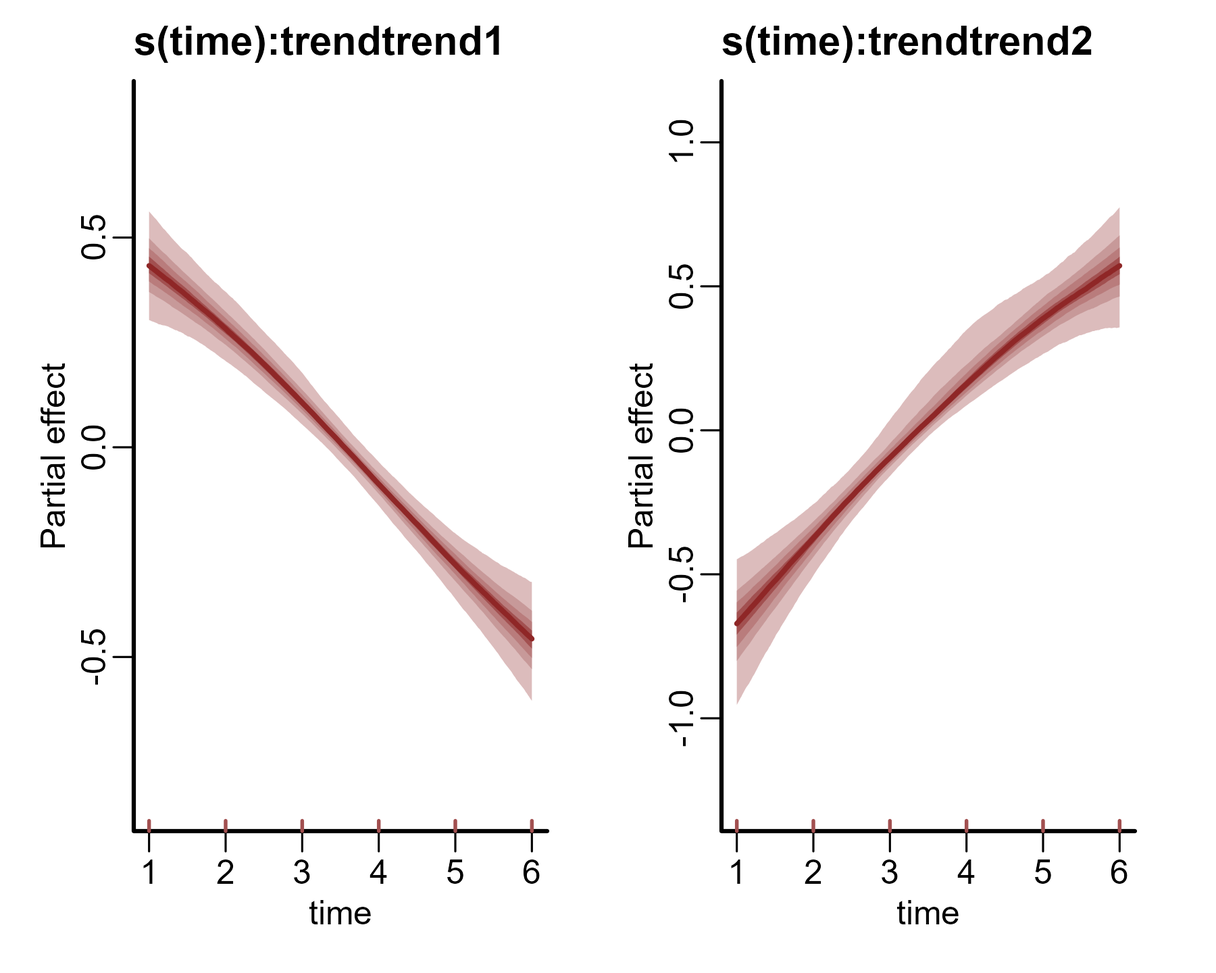
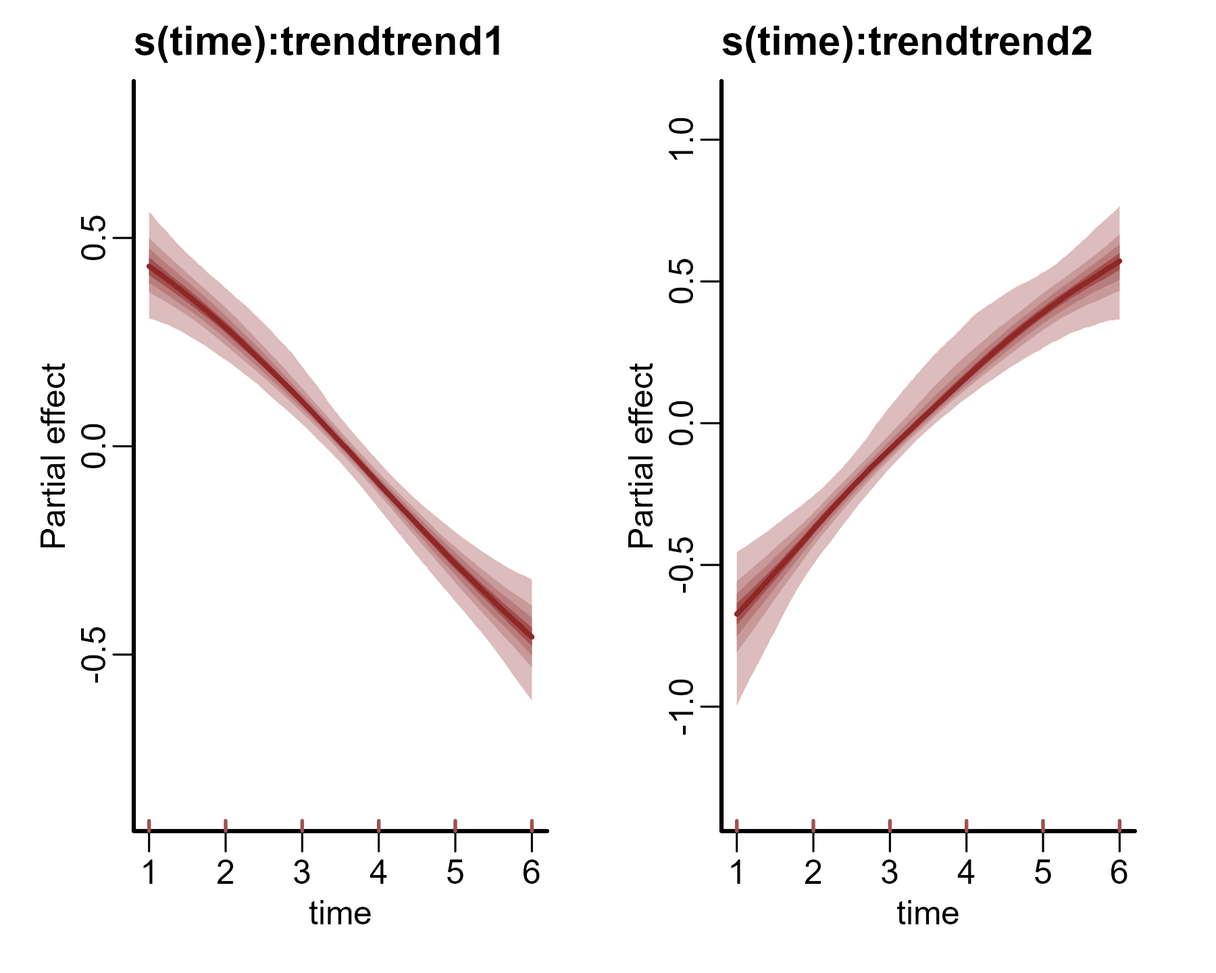
more efficient LV to trend conversions

diff --git a/docs/articles/nmixtures.html b/docs/articles/nmixtures.html
@@ -297,7 +297,7 @@ Bayesian inference</p>
 <span>  </span>
 <span>  <span class="co"># the trend_formula sets up the linear predictors for </span></span>
 <span>  <span class="co"># the latent abundance processes on the log scale</span></span>
-<span>  trend_formula <span class="op">=</span> <span class="op">~</span> <span class="fu"><a href="https://rdrr.io/pkg/mgcv/man/s.html" class="external-link">s</a></span><span class="op">(</span><span class="va">time</span>, by <span class="op">=</span> <span class="va">trend</span>, k <span class="op">=</span> <span class="fl">4</span><span class="op">)</span> <span class="op">+</span> <span class="va">species</span>,</span>
+<span>  trend_formula <span class="op">=</span> <span class="op">~</span> <span class="fu">s</span><span class="op">(</span><span class="va">time</span>, by <span class="op">=</span> <span class="va">trend</span>, k <span class="op">=</span> <span class="fl">4</span><span class="op">)</span> <span class="op">+</span> <span class="va">species</span>,</span>
 <span>  </span>
 <span>  <span class="co"># the trend_map takes care of the mapping</span></span>
 <span>  trend_map <span class="op">=</span> <span class="va">trend_map</span>,</span>
@@ -307,8 +307,8 @@ Bayesian inference</p>
 <span>  data <span class="op">=</span> <span class="va">testdat</span>,</span>
 <span>  </span>
 <span>  <span class="co"># priors can be set in the usual way</span></span>
-<span>  priors <span class="op">=</span> <span class="fu"><a href="https://rdrr.io/r/base/c.html" class="external-link">c</a></span><span class="op">(</span><span class="fu"><a href="https://paul-buerkner.github.io/brms/reference/set_prior.html" class="external-link">prior</a></span><span class="op">(</span><span class="fu">std_normal</span><span class="op">(</span><span class="op">)</span>, class <span class="op">=</span> <span class="va">b</span><span class="op">)</span>,</span>
-<span>             <span class="fu"><a href="https://paul-buerkner.github.io/brms/reference/set_prior.html" class="external-link">prior</a></span><span class="op">(</span><span class="fu">normal</span><span class="op">(</span><span class="fl">1</span>, <span class="fl">1.5</span><span class="op">)</span>, class <span class="op">=</span> <span class="va">Intercept_trend</span><span class="op">)</span><span class="op">)</span><span class="op">)</span></span></code></pre></div>
+<span>  priors <span class="op">=</span> <span class="fu"><a href="https://rdrr.io/r/base/c.html" class="external-link">c</a></span><span class="op">(</span><span class="fu">prior</span><span class="op">(</span><span class="fu">std_normal</span><span class="op">(</span><span class="op">)</span>, class <span class="op">=</span> <span class="va">b</span><span class="op">)</span>,</span>
+<span>             <span class="fu">prior</span><span class="op">(</span><span class="fu">normal</span><span class="op">(</span><span class="fl">1</span>, <span class="fl">1.5</span><span class="op">)</span>, class <span class="op">=</span> <span class="va">Intercept_trend</span><span class="op">)</span><span class="op">)</span><span class="op">)</span></span></code></pre></div>
 <p>View the automatically-generated <code>Stan</code> code to get a
 sense of how the marginalization over latent N works</p>
 <div class="sourceCode" id="cb10"><pre class="downlit sourceCode r">
@@ -427,7 +427,6 @@ sense of how the marginalization over latent N works</p>
 <span><span class="co">##   // latent states and loading matrix</span></span>
 <span><span class="co">##   vector[n * n_lv] trend_mus;</span></span>
 <span><span class="co">##   matrix[n, n_series] trend;</span></span>
-<span><span class="co">##   matrix[n_series, n_lv] lv_coefs;</span></span>
 <span><span class="co">##   </span></span>
 <span><span class="co">##   // basis coefficients</span></span>
 <span><span class="co">##   vector[num_basis] b;</span></span>
@@ -449,12 +448,7 @@ sense of how the marginalization over latent N works</p>
 <span><span class="co">##   }</span></span>
 <span><span class="co">##   </span></span>
 <span><span class="co">##   // derived latent states</span></span>
-<span><span class="co">##   lv_coefs = Z;</span></span>
-<span><span class="co">##   for (i in 1 : n) {</span></span>
-<span><span class="co">##     for (s in 1 : n_series) {</span></span>
-<span><span class="co">##       trend[i, s] = dot_product(lv_coefs[s,  : ], LV[i,  : ]);</span></span>
-<span><span class="co">##     }</span></span>
-<span><span class="co">##   }</span></span>
+<span><span class="co">##   trend = LV * Z';</span></span>
 <span><span class="co">## }</span></span>
 <span><span class="co">## model {</span></span>
 <span><span class="co">##   // prior for speciessp_1...</span></span>
@@ -508,6 +502,7 @@ sense of how the marginalization over latent N works</p>
 <span><span class="co">##   penalty = rep_vector(1e12, n_lv);</span></span>
 <span><span class="co">##   rho_trend = log(lambda_trend);</span></span>
 <span><span class="co">##   </span></span>
+<span><span class="co">##   matrix[n_series, n_lv] lv_coefs = Z;</span></span>
 <span><span class="co">##   // posterior predictions</span></span>
 <span><span class="co">##   eta = X * b;</span></span>
 <span><span class="co">##   {</span></span>
@@ -576,25 +571,25 @@ sense of how the marginalization over latent N works</p>
 <span><span class="co">## </span></span>
 <span><span class="co">## </span></span>
 <span><span class="co">## GAM observation model coefficient (beta) estimates:</span></span>
-<span><span class="co">##              2.5%  50% 97.5% Rhat n_eff</span></span>
-<span><span class="co">## speciessp_1 0.520 1.10   1.6    1   982</span></span>
-<span><span class="co">## speciessp_2 0.031 0.71   1.2    1  1302</span></span>
+<span><span class="co">##              2.5% 50% 97.5% Rhat n_eff</span></span>
+<span><span class="co">## speciessp_1 0.560 1.1   1.6    1   926</span></span>
+<span><span class="co">## speciessp_2 0.078 0.7   1.2    1  1095</span></span>
 <span><span class="co">## </span></span>
 <span><span class="co">## GAM process model coefficient (beta) estimates:</span></span>
 <span><span class="co">##                               2.5%    50%  97.5% Rhat n_eff</span></span>
-<span><span class="co">## (Intercept)_trend            2.700  2.900  3.100    1   972</span></span>
-<span><span class="co">## speciessp_2_trend           -1.100 -0.820 -0.530    1   881</span></span>
-<span><span class="co">## s(time):trendtrend1.1_trend -0.061  0.027  0.220    1   821</span></span>
-<span><span class="co">## s(time):trendtrend1.2_trend -0.150  0.028  0.250    1  1523</span></span>
-<span><span class="co">## s(time):trendtrend1.3_trend -0.410 -0.280 -0.094    1  1102</span></span>
-<span><span class="co">## s(time):trendtrend2.1_trend -0.310 -0.021  0.092    1   481</span></span>
-<span><span class="co">## s(time):trendtrend2.2_trend -0.110  0.110  0.750    1   481</span></span>
-<span><span class="co">## s(time):trendtrend2.3_trend  0.170  0.410  0.630    1   917</span></span>
+<span><span class="co">## (Intercept)_trend            2.700  2.900  3.100 1.00   860</span></span>
+<span><span class="co">## speciessp_2_trend           -1.100 -0.830 -0.520 1.00   815</span></span>
+<span><span class="co">## s(time):trendtrend1.1_trend -0.059  0.031  0.310 1.00   447</span></span>
+<span><span class="co">## s(time):trendtrend1.2_trend -0.170  0.027  0.260 1.00  1085</span></span>
+<span><span class="co">## s(time):trendtrend1.3_trend -0.400 -0.270 -0.014 1.00   565</span></span>
+<span><span class="co">## s(time):trendtrend2.1_trend -0.300 -0.018  0.150 1.01   407</span></span>
+<span><span class="co">## s(time):trendtrend2.2_trend -0.110  0.110  0.830 1.00   434</span></span>
+<span><span class="co">## s(time):trendtrend2.3_trend  0.160  0.410  0.680 1.01   416</span></span>
 <span><span class="co">## </span></span>
 <span><span class="co">## Approximate significance of GAM process smooths:</span></span>
 <span><span class="co">##                        edf    F p-value   </span></span>
-<span><span class="co">## s(time):seriestrend1 0.596 0.26  0.0013 **</span></span>
-<span><span class="co">## s(time):seriestrend2 0.881 0.41  0.0269 * </span></span>
+<span><span class="co">## s(time):seriestrend1 0.424 0.27  0.3338   </span></span>
+<span><span class="co">## s(time):seriestrend2 1.092 0.42  0.0019 **</span></span>
 <span><span class="co">## ---</span></span>
 <span><span class="co">## Signif. codes:  0 '***' 0.001 '**' 0.01 '*' 0.05 '.' 0.1 ' ' 1</span></span>
 <span><span class="co">## </span></span>
@@ -605,29 +600,29 @@ sense of how the marginalization over latent N works</p>
 <span><span class="co">## 0 of 2000 iterations saturated the maximum tree depth of 12 (0%)</span></span>
 <span><span class="co">## E-FMI indicated no pathological behavior</span></span>
 <span><span class="co">## </span></span>
-<span><span class="co">## Samples were drawn using NUTS(diag_e) at Mon Jan 29 3:46:52 PM 2024.</span></span>
+<span><span class="co">## Samples were drawn using NUTS(diag_e) at Mon Jan 29 9:53:45 PM 2024.</span></span>
 <span><span class="co">## For each parameter, n_eff is a crude measure of effective sample size,</span></span>
 <span><span class="co">## and Rhat is the potential scale reduction factor on split MCMC chains</span></span>
 <span><span class="co">## (at convergence, Rhat = 1)</span></span></code></pre>
-<p><code><a href="https://mc-stan.org/loo/reference/loo.html" class="external-link">loo()</a></code> functionality works just as it does for all
+<p><code>loo()</code> functionality works just as it does for all
 <code>mvgam</code> models to aid in model comparison / selection</p>
 <div class="sourceCode" id="cb14"><pre class="downlit sourceCode r">
-<code class="sourceCode R"><span><span class="fu"><a href="https://mc-stan.org/loo/reference/loo.html" class="external-link">loo</a></span><span class="op">(</span><span class="va">mod</span><span class="op">)</span></span></code></pre></div>
+<code class="sourceCode R"><span><span class="fu">loo</span><span class="op">(</span><span class="va">mod</span><span class="op">)</span></span></code></pre></div>
 <pre><code><span><span class="co">## Warning: Some Pareto k diagnostic values are slightly high. See help('pareto-k-diagnostic') for details.</span></span></code></pre>
 <pre><code><span><span class="co">## </span></span>
 <span><span class="co">## Computed from 2000 by 60 log-likelihood matrix</span></span>
 <span><span class="co">## </span></span>
 <span><span class="co">##          Estimate  SE</span></span>
-<span><span class="co">## elpd_loo   -140.0 3.2</span></span>
-<span><span class="co">## p_loo         4.2 0.7</span></span>
-<span><span class="co">## looic       280.0 6.3</span></span>
+<span><span class="co">## elpd_loo   -139.9 3.2</span></span>
+<span><span class="co">## p_loo         4.3 0.7</span></span>
+<span><span class="co">## looic       279.8 6.3</span></span>
 <span><span class="co">## ------</span></span>
 <span><span class="co">## Monte Carlo SE of elpd_loo is 0.1.</span></span>
 <span><span class="co">## </span></span>
 <span><span class="co">## Pareto k diagnostic values:</span></span>
 <span><span class="co">##                          Count Pct.    Min. n_eff</span></span>
-<span><span class="co">## (-Inf, 0.5]   (good)     57    95.0%   386       </span></span>
-<span><span class="co">##  (0.5, 0.7]   (ok)        3     5.0%   567       </span></span>
+<span><span class="co">## (-Inf, 0.5]   (good)     59    98.3%   428       </span></span>
+<span><span class="co">##  (0.5, 0.7]   (ok)        1     1.7%   204       </span></span>
 <span><span class="co">##    (0.7, 1]   (bad)       0     0.0%   &lt;NA&gt;      </span></span>
 <span><span class="co">##    (1, Inf)   (very bad)  0     0.0%   &lt;NA&gt;      </span></span>
 <span><span class="co">## </span></span>
@@ -647,12 +642,12 @@ the estimated detection probabilities per species, which shows that the
 model has over-estimated detection probability for species 2 (originally
 simulated to be 0.45):</p>
 <div class="sourceCode" id="cb18"><pre class="downlit sourceCode r">
-<code class="sourceCode R"><span><span class="fu"><a href="https://rdrr.io/pkg/marginaleffects/man/plot_predictions.html" class="external-link">plot_predictions</a></span><span class="op">(</span><span class="va">mod</span>, condition <span class="op">=</span> <span class="st">'species'</span>,</span>
+<code class="sourceCode R"><span><span class="fu">plot_predictions</span><span class="op">(</span><span class="va">mod</span>, condition <span class="op">=</span> <span class="st">'species'</span>,</span>
 <span>                 type <span class="op">=</span> <span class="st">'detection'</span><span class="op">)</span> <span class="op">+</span></span>
-<span>  <span class="fu"><a href="https://ggplot2.tidyverse.org/reference/labs.html" class="external-link">ylab</a></span><span class="op">(</span><span class="st">'Pr(detection)'</span><span class="op">)</span> <span class="op">+</span></span>
-<span>  <span class="fu"><a href="https://ggplot2.tidyverse.org/reference/lims.html" class="external-link">ylim</a></span><span class="op">(</span><span class="fu"><a href="https://rdrr.io/r/base/c.html" class="external-link">c</a></span><span class="op">(</span><span class="fl">0</span>, <span class="fl">1</span><span class="op">)</span><span class="op">)</span> <span class="op">+</span></span>
-<span>  <span class="fu"><a href="https://ggplot2.tidyverse.org/reference/ggtheme.html" class="external-link">theme_classic</a></span><span class="op">(</span><span class="op">)</span> <span class="op">+</span></span>
-<span>  <span class="fu"><a href="https://ggplot2.tidyverse.org/reference/theme.html" class="external-link">theme</a></span><span class="op">(</span>legend.position <span class="op">=</span> <span class="st">'none'</span><span class="op">)</span></span></code></pre></div>
+<span>  <span class="fu">ylab</span><span class="op">(</span><span class="st">'Pr(detection)'</span><span class="op">)</span> <span class="op">+</span></span>
+<span>  <span class="fu">ylim</span><span class="op">(</span><span class="fu"><a href="https://rdrr.io/r/base/c.html" class="external-link">c</a></span><span class="op">(</span><span class="fl">0</span>, <span class="fl">1</span><span class="op">)</span><span class="op">)</span> <span class="op">+</span></span>
+<span>  <span class="fu">theme_classic</span><span class="op">(</span><span class="op">)</span> <span class="op">+</span></span>
+<span>  <span class="fu">theme</span><span class="op">(</span>legend.position <span class="op">=</span> <span class="st">'none'</span><span class="op">)</span></span></code></pre></div>
 <p><img src="nmixtures_files/figure-html/unnamed-chunk-11-1.png" width="60%" style="display: block; margin: auto;"></p>
 <p>A common goal in N-mixture modelling is to estimate the true latent
 abundance. The model has automatically generated predictions of the
@@ -695,18 +690,18 @@ extract these and produce decent plots using a small function</p>
 <span>    <span class="fu">dplyr</span><span class="fu">::</span><span class="fu"><a href="https://dplyr.tidyverse.org/reference/select.html" class="external-link">select</a></span><span class="op">(</span><span class="va">time</span>, <span class="va">obs</span><span class="op">)</span> <span class="op">-&gt;</span> <span class="va">observations</span></span>
 <span>  </span>
 <span>  <span class="co"># Plot</span></span>
-<span>  <span class="fu"><a href="https://ggplot2.tidyverse.org/reference/ggplot.html" class="external-link">ggplot</a></span><span class="op">(</span><span class="va">pred_quantiles</span>, <span class="fu"><a href="https://ggplot2.tidyverse.org/reference/aes.html" class="external-link">aes</a></span><span class="op">(</span>x <span class="op">=</span> <span class="va">time</span>, group <span class="op">=</span> <span class="fl">1</span><span class="op">)</span><span class="op">)</span> <span class="op">+</span></span>
-<span>    <span class="fu"><a href="https://ggplot2.tidyverse.org/reference/geom_ribbon.html" class="external-link">geom_ribbon</a></span><span class="op">(</span><span class="fu"><a href="https://ggplot2.tidyverse.org/reference/aes.html" class="external-link">aes</a></span><span class="op">(</span>ymin <span class="op">=</span> <span class="va">X5.</span>, ymax <span class="op">=</span> <span class="va">X95.</span><span class="op">)</span>, fill <span class="op">=</span> <span class="st">"#DCBCBC"</span><span class="op">)</span> <span class="op">+</span> </span>
-<span>    <span class="fu"><a href="https://ggplot2.tidyverse.org/reference/geom_ribbon.html" class="external-link">geom_ribbon</a></span><span class="op">(</span><span class="fu"><a href="https://ggplot2.tidyverse.org/reference/aes.html" class="external-link">aes</a></span><span class="op">(</span>ymin <span class="op">=</span> <span class="va">X30.</span>, ymax <span class="op">=</span> <span class="va">X70.</span><span class="op">)</span>, fill <span class="op">=</span> <span class="st">"#B97C7C"</span><span class="op">)</span> <span class="op">+</span></span>
-<span>    <span class="fu"><a href="https://ggplot2.tidyverse.org/reference/geom_path.html" class="external-link">geom_line</a></span><span class="op">(</span><span class="fu"><a href="https://ggplot2.tidyverse.org/reference/aes.html" class="external-link">aes</a></span><span class="op">(</span>x <span class="op">=</span> <span class="va">time</span>, y <span class="op">=</span> <span class="va">truth</span><span class="op">)</span>,</span>
+<span>  <span class="fu">ggplot</span><span class="op">(</span><span class="va">pred_quantiles</span>, <span class="fu">aes</span><span class="op">(</span>x <span class="op">=</span> <span class="va">time</span>, group <span class="op">=</span> <span class="fl">1</span><span class="op">)</span><span class="op">)</span> <span class="op">+</span></span>
+<span>    <span class="fu">geom_ribbon</span><span class="op">(</span><span class="fu">aes</span><span class="op">(</span>ymin <span class="op">=</span> <span class="va">X5.</span>, ymax <span class="op">=</span> <span class="va">X95.</span><span class="op">)</span>, fill <span class="op">=</span> <span class="st">"#DCBCBC"</span><span class="op">)</span> <span class="op">+</span> </span>
+<span>    <span class="fu">geom_ribbon</span><span class="op">(</span><span class="fu">aes</span><span class="op">(</span>ymin <span class="op">=</span> <span class="va">X30.</span>, ymax <span class="op">=</span> <span class="va">X70.</span><span class="op">)</span>, fill <span class="op">=</span> <span class="st">"#B97C7C"</span><span class="op">)</span> <span class="op">+</span></span>
+<span>    <span class="fu">geom_line</span><span class="op">(</span><span class="fu">aes</span><span class="op">(</span>x <span class="op">=</span> <span class="va">time</span>, y <span class="op">=</span> <span class="va">truth</span><span class="op">)</span>,</span>
 <span>              colour <span class="op">=</span> <span class="st">'black'</span>, linewidth <span class="op">=</span> <span class="fl">1</span><span class="op">)</span> <span class="op">+</span></span>
-<span>    <span class="fu"><a href="https://ggplot2.tidyverse.org/reference/geom_point.html" class="external-link">geom_point</a></span><span class="op">(</span><span class="fu"><a href="https://ggplot2.tidyverse.org/reference/aes.html" class="external-link">aes</a></span><span class="op">(</span>x <span class="op">=</span> <span class="va">time</span>, y <span class="op">=</span> <span class="va">truth</span><span class="op">)</span>,</span>
+<span>    <span class="fu">geom_point</span><span class="op">(</span><span class="fu">aes</span><span class="op">(</span>x <span class="op">=</span> <span class="va">time</span>, y <span class="op">=</span> <span class="va">truth</span><span class="op">)</span>,</span>
 <span>               shape <span class="op">=</span> <span class="fl">21</span>, colour <span class="op">=</span> <span class="st">'white'</span>, fill <span class="op">=</span> <span class="st">'black'</span>,</span>
 <span>               size <span class="op">=</span> <span class="fl">2.5</span><span class="op">)</span> <span class="op">+</span></span>
-<span>    <span class="fu"><a href="https://ggplot2.tidyverse.org/reference/geom_jitter.html" class="external-link">geom_jitter</a></span><span class="op">(</span>data <span class="op">=</span> <span class="va">observations</span>, <span class="fu"><a href="https://ggplot2.tidyverse.org/reference/aes.html" class="external-link">aes</a></span><span class="op">(</span>x <span class="op">=</span> <span class="va">time</span>, y <span class="op">=</span> <span class="va">obs</span><span class="op">)</span>,</span>
+<span>    <span class="fu">geom_jitter</span><span class="op">(</span>data <span class="op">=</span> <span class="va">observations</span>, <span class="fu">aes</span><span class="op">(</span>x <span class="op">=</span> <span class="va">time</span>, y <span class="op">=</span> <span class="va">obs</span><span class="op">)</span>,</span>
 <span>                width <span class="op">=</span> <span class="fl">0.06</span>, </span>
 <span>                shape <span class="op">=</span> <span class="fl">21</span>, fill <span class="op">=</span> <span class="st">'darkred'</span>, colour <span class="op">=</span> <span class="st">'white'</span>, size <span class="op">=</span> <span class="fl">2.5</span><span class="op">)</span> <span class="op">+</span></span>
-<span>    <span class="fu"><a href="https://ggplot2.tidyverse.org/reference/labs.html" class="external-link">labs</a></span><span class="op">(</span>y <span class="op">=</span> <span class="st">'Latent abundance (N)'</span>,</span>
+<span>    <span class="fu">labs</span><span class="op">(</span>y <span class="op">=</span> <span class="st">'Latent abundance (N)'</span>,</span>
 <span>         x <span class="op">=</span> <span class="st">'Time'</span>,</span>
 <span>         title <span class="op">=</span> <span class="va">species</span><span class="op">)</span></span>
 <span><span class="op">}</span></span></code></pre></div>
@@ -730,7 +725,7 @@ ability to take accurate measurements</p>
 </div>
 </div>
 <div class="section level2">
-<h2 id="example-2-a-two-species-system-with-nonlinear-trends">Example 2: a two-species system with nonlinear trends<a class="anchor" aria-label="anchor" href="#example-2-a-two-species-system-with-nonlinear-trends"></a>
+<h2 id="example-2-a-larger-survey-with-nonlinear-effects">Example 2: a larger survey with nonlinear effects<a class="anchor" aria-label="anchor" href="#example-2-a-larger-survey-with-nonlinear-effects"></a>
 </h2>
 <p>Now for another example with a larger dataset. We will use data from
 <a href="https://www.jeffdoser.com/files/spabundance-web/articles/nmixturemodels" target="_blank" class="external-link">Jeff Doser’s simulation example from the wonderful
@@ -856,13 +851,13 @@ substantially)</p>
 <code class="sourceCode R"><span><span class="va">mod</span> <span class="op">&lt;-</span> <span class="fu"><a href="../reference/mvgam.html">mvgam</a></span><span class="op">(</span></span>
 <span>  <span class="co"># effects of covariates on detection probability;</span></span>
 <span>  <span class="co"># here we use penalized splines for both continuous covariates</span></span>
-<span>  formula <span class="op">=</span> <span class="va">y</span> <span class="op">~</span> <span class="fu"><a href="https://rdrr.io/pkg/mgcv/man/s.html" class="external-link">s</a></span><span class="op">(</span><span class="va">det_cov</span>, k <span class="op">=</span> <span class="fl">3</span><span class="op">)</span> <span class="op">+</span> <span class="fu"><a href="https://rdrr.io/pkg/mgcv/man/s.html" class="external-link">s</a></span><span class="op">(</span><span class="va">det_cov2</span>, k <span class="op">=</span> <span class="fl">3</span><span class="op">)</span>,</span>
+<span>  formula <span class="op">=</span> <span class="va">y</span> <span class="op">~</span> <span class="fu">s</span><span class="op">(</span><span class="va">det_cov</span>, k <span class="op">=</span> <span class="fl">3</span><span class="op">)</span> <span class="op">+</span> <span class="fu">s</span><span class="op">(</span><span class="va">det_cov2</span>, k <span class="op">=</span> <span class="fl">3</span><span class="op">)</span>,</span>
 <span>  </span>
 <span>  <span class="co"># effects of the covariates on latent abundance;</span></span>
 <span>  <span class="co"># here we use a penalized spline for the continuous covariate and</span></span>
 <span>  <span class="co"># hierarchical intercepts for the factor covariate</span></span>
-<span>  trend_formula <span class="op">=</span> <span class="op">~</span> <span class="fu"><a href="https://rdrr.io/pkg/mgcv/man/s.html" class="external-link">s</a></span><span class="op">(</span><span class="va">abund_cov</span>, k <span class="op">=</span> <span class="fl">3</span><span class="op">)</span> <span class="op">+</span></span>
-<span>    <span class="fu"><a href="https://rdrr.io/pkg/mgcv/man/s.html" class="external-link">s</a></span><span class="op">(</span><span class="va">abund_fac</span>, bs <span class="op">=</span> <span class="st">'re'</span><span class="op">)</span>,</span>
+<span>  trend_formula <span class="op">=</span> <span class="op">~</span> <span class="fu">s</span><span class="op">(</span><span class="va">abund_cov</span>, k <span class="op">=</span> <span class="fl">3</span><span class="op">)</span> <span class="op">+</span></span>
+<span>    <span class="fu">s</span><span class="op">(</span><span class="va">abund_fac</span>, bs <span class="op">=</span> <span class="st">'re'</span><span class="op">)</span>,</span>
 <span>  </span>
 <span>  <span class="co"># link multiple observations to each site</span></span>
 <span>  trend_map <span class="op">=</span> <span class="va">trend_map</span>,</span>
@@ -872,9 +867,9 @@ substantially)</p>
 <span>  data <span class="op">=</span> <span class="va">mod_data</span>,</span>
 <span>  </span>
 <span>  <span class="co"># standard normal priors on key regression parameters</span></span>
-<span>  priors <span class="op">=</span> <span class="fu"><a href="https://rdrr.io/r/base/c.html" class="external-link">c</a></span><span class="op">(</span><span class="fu"><a href="https://paul-buerkner.github.io/brms/reference/set_prior.html" class="external-link">prior</a></span><span class="op">(</span><span class="fu">std_normal</span><span class="op">(</span><span class="op">)</span>, class <span class="op">=</span> <span class="st">'b'</span><span class="op">)</span>,</span>
-<span>             <span class="fu"><a href="https://paul-buerkner.github.io/brms/reference/set_prior.html" class="external-link">prior</a></span><span class="op">(</span><span class="fu">std_normal</span><span class="op">(</span><span class="op">)</span>, class <span class="op">=</span> <span class="st">'Intercept'</span><span class="op">)</span>,</span>
-<span>             <span class="fu"><a href="https://paul-buerkner.github.io/brms/reference/set_prior.html" class="external-link">prior</a></span><span class="op">(</span><span class="fu">std_normal</span><span class="op">(</span><span class="op">)</span>, class <span class="op">=</span> <span class="st">'Intercept_trend'</span><span class="op">)</span><span class="op">)</span>,</span>
+<span>  priors <span class="op">=</span> <span class="fu"><a href="https://rdrr.io/r/base/c.html" class="external-link">c</a></span><span class="op">(</span><span class="fu">prior</span><span class="op">(</span><span class="fu">std_normal</span><span class="op">(</span><span class="op">)</span>, class <span class="op">=</span> <span class="st">'b'</span><span class="op">)</span>,</span>
+<span>             <span class="fu">prior</span><span class="op">(</span><span class="fu">std_normal</span><span class="op">(</span><span class="op">)</span>, class <span class="op">=</span> <span class="st">'Intercept'</span><span class="op">)</span>,</span>
+<span>             <span class="fu">prior</span><span class="op">(</span><span class="fu">std_normal</span><span class="op">(</span><span class="op">)</span>, class <span class="op">=</span> <span class="st">'Intercept_trend'</span><span class="op">)</span><span class="op">)</span>,</span>
 <span>  </span>
 <span>  <span class="co"># use Stan's variational inference for quicker results</span></span>
 <span>  algorithm <span class="op">=</span> <span class="st">'meanfield'</span>,</span>
@@ -947,7 +942,7 @@ model</p>
 interrogating the model through targeted predictions. First, we can
 inspect the estimated average detection probability</p>
 <div class="sourceCode" id="cb35"><pre class="downlit sourceCode r">
-<code class="sourceCode R"><span><span class="fu"><a href="https://rdrr.io/pkg/marginaleffects/man/predictions.html" class="external-link">avg_predictions</a></span><span class="op">(</span><span class="va">mod</span>, type <span class="op">=</span> <span class="st">'detection'</span><span class="op">)</span></span></code></pre></div>
+<code class="sourceCode R"><span><span class="fu">avg_predictions</span><span class="op">(</span><span class="va">mod</span>, type <span class="op">=</span> <span class="st">'detection'</span><span class="op">)</span></span></code></pre></div>
 <pre><code><span><span class="co">## </span></span>
 <span><span class="co">##  Estimate 2.5 % 97.5 %</span></span>
 <span><span class="co">##     0.647 0.568  0.721</span></span>
@@ -955,11 +950,11 @@ inspect the estimated average detection probability</p>
 <span><span class="co">## Columns: estimate, conf.low, conf.high </span></span>
 <span><span class="co">## Type:  detection</span></span></code></pre>
 <p>Next investigate estimated effects of covariates on latent abundance
-using the <code><a href="https://paul-buerkner.github.io/brms/reference/conditional_effects.brmsfit.html" class="external-link">conditional_effects()</a></code> function and specifying
+using the <code>conditional_effects()</code> function and specifying
 <code>type = 'link'</code>; this will return plots on the expectation
 scale</p>
 <div class="sourceCode" id="cb37"><pre class="downlit sourceCode r">
-<code class="sourceCode R"><span><span class="va">abund_plots</span> <span class="op">&lt;-</span> <span class="fu"><a href="https://rdrr.io/r/graphics/plot.default.html" class="external-link">plot</a></span><span class="op">(</span><span class="fu"><a href="https://paul-buerkner.github.io/brms/reference/conditional_effects.brmsfit.html" class="external-link">conditional_effects</a></span><span class="op">(</span><span class="va">mod</span>,</span>
+<code class="sourceCode R"><span><span class="va">abund_plots</span> <span class="op">&lt;-</span> <span class="fu"><a href="https://rdrr.io/r/graphics/plot.default.html" class="external-link">plot</a></span><span class="op">(</span><span class="fu">conditional_effects</span><span class="op">(</span><span class="va">mod</span>,</span>
 <span>                                        type <span class="op">=</span> <span class="st">'link'</span>,</span>
 <span>                                        effects <span class="op">=</span> <span class="fu"><a href="https://rdrr.io/r/base/c.html" class="external-link">c</a></span><span class="op">(</span><span class="st">'abund_cov'</span>,</span>
 <span>                                                    <span class="st">'abund_fac'</span><span class="op">)</span><span class="op">)</span>,</span>
@@ -968,18 +963,18 @@ scale</p>
 abundance</p>
 <div class="sourceCode" id="cb38"><pre class="downlit sourceCode r">
 <code class="sourceCode R"><span><span class="va">abund_plots</span><span class="op">[[</span><span class="fl">1</span><span class="op">]</span><span class="op">]</span> <span class="op">+</span></span>
-<span>  <span class="fu"><a href="https://ggplot2.tidyverse.org/reference/labs.html" class="external-link">ylab</a></span><span class="op">(</span><span class="st">'Expected latent abundance'</span><span class="op">)</span></span></code></pre></div>
+<span>  <span class="fu">ylab</span><span class="op">(</span><span class="st">'Expected latent abundance'</span><span class="op">)</span></span></code></pre></div>
 <p><img src="nmixtures_files/figure-html/unnamed-chunk-23-1.png" width="60%" style="display: block; margin: auto;"></p>
 <p>The effect of the factor covariate on expected latent abundance,
 estimated as a hierarchical random effect</p>
 <div class="sourceCode" id="cb39"><pre class="downlit sourceCode r">
 <code class="sourceCode R"><span><span class="va">abund_plots</span><span class="op">[[</span><span class="fl">2</span><span class="op">]</span><span class="op">]</span> <span class="op">+</span></span>
-<span>  <span class="fu"><a href="https://ggplot2.tidyverse.org/reference/labs.html" class="external-link">ylab</a></span><span class="op">(</span><span class="st">'Expected latent abundance'</span><span class="op">)</span></span></code></pre></div>
+<span>  <span class="fu">ylab</span><span class="op">(</span><span class="st">'Expected latent abundance'</span><span class="op">)</span></span></code></pre></div>
 <p><img src="nmixtures_files/figure-html/unnamed-chunk-24-1.png" width="60%" style="display: block; margin: auto;"></p>
 <p>Now we can investigate estimated effects of covariates on detection
 probability using <code>type = 'detection'</code></p>
 <div class="sourceCode" id="cb40"><pre class="downlit sourceCode r">
-<code class="sourceCode R"><span><span class="va">det_plots</span> <span class="op">&lt;-</span> <span class="fu"><a href="https://rdrr.io/r/graphics/plot.default.html" class="external-link">plot</a></span><span class="op">(</span><span class="fu"><a href="https://paul-buerkner.github.io/brms/reference/conditional_effects.brmsfit.html" class="external-link">conditional_effects</a></span><span class="op">(</span><span class="va">mod</span>,</span>
+<code class="sourceCode R"><span><span class="va">det_plots</span> <span class="op">&lt;-</span> <span class="fu"><a href="https://rdrr.io/r/graphics/plot.default.html" class="external-link">plot</a></span><span class="op">(</span><span class="fu">conditional_effects</span><span class="op">(</span><span class="va">mod</span>,</span>
 <span>                                      type <span class="op">=</span> <span class="st">'detection'</span>,</span>
 <span>                                      effects <span class="op">=</span> <span class="fu"><a href="https://rdrr.io/r/base/c.html" class="external-link">c</a></span><span class="op">(</span><span class="st">'det_cov'</span>,</span>
 <span>                                                  <span class="st">'det_cov2'</span><span class="op">)</span><span class="op">)</span>,</span>
@@ -990,11 +985,11 @@ significances). But inspecting conditional effects of each covariate on
 the probability scale is more intuitive and useful</p>
 <div class="sourceCode" id="cb41"><pre class="downlit sourceCode r">
 <code class="sourceCode R"><span><span class="va">det_plots</span><span class="op">[[</span><span class="fl">1</span><span class="op">]</span><span class="op">]</span> <span class="op">+</span></span>
-<span>  <span class="fu"><a href="https://ggplot2.tidyverse.org/reference/labs.html" class="external-link">ylab</a></span><span class="op">(</span><span class="st">'Pr(detection)'</span><span class="op">)</span></span></code></pre></div>
+<span>  <span class="fu">ylab</span><span class="op">(</span><span class="st">'Pr(detection)'</span><span class="op">)</span></span></code></pre></div>
 <p><img src="nmixtures_files/figure-html/unnamed-chunk-26-1.png" width="60%" style="display: block; margin: auto;"></p>
 <div class="sourceCode" id="cb42"><pre class="downlit sourceCode r">
 <code class="sourceCode R"><span><span class="va">det_plots</span><span class="op">[[</span><span class="fl">2</span><span class="op">]</span><span class="op">]</span> <span class="op">+</span></span>
-<span>  <span class="fu"><a href="https://ggplot2.tidyverse.org/reference/labs.html" class="external-link">ylab</a></span><span class="op">(</span><span class="st">'Pr(detection)'</span><span class="op">)</span></span></code></pre></div>
+<span>  <span class="fu">ylab</span><span class="op">(</span><span class="st">'Pr(detection)'</span><span class="op">)</span></span></code></pre></div>
 <p><img src="nmixtures_files/figure-html/unnamed-chunk-26-2.png" width="60%" style="display: block; margin: auto;"></p>
 <p>More targeted predictions are also easy with
 <code>marginaleffects</code> support. For example, we can ask: How does
@@ -1003,13 +998,13 @@ covariates?</p>
 <div class="sourceCode" id="cb43"><pre class="downlit sourceCode r">
 <code class="sourceCode R"><span><span class="va">fivenum_round</span> <span class="op">=</span> <span class="kw">function</span><span class="op">(</span><span class="va">x</span><span class="op">)</span><span class="fu"><a href="https://rdrr.io/r/base/Round.html" class="external-link">round</a></span><span class="op">(</span><span class="fu"><a href="https://rdrr.io/r/stats/fivenum.html" class="external-link">fivenum</a></span><span class="op">(</span><span class="va">x</span>, na.rm <span class="op">=</span> <span class="cn">TRUE</span><span class="op">)</span>, <span class="fl">2</span><span class="op">)</span></span>
 <span></span>
-<span><span class="fu"><a href="https://rdrr.io/pkg/marginaleffects/man/plot_predictions.html" class="external-link">plot_predictions</a></span><span class="op">(</span><span class="va">mod</span>, </span>
-<span>                 newdata <span class="op">=</span> <span class="fu"><a href="https://rdrr.io/pkg/marginaleffects/man/datagrid.html" class="external-link">datagrid</a></span><span class="op">(</span>det_cov <span class="op">=</span> <span class="va">unique</span>,</span>
+<span><span class="fu">plot_predictions</span><span class="op">(</span><span class="va">mod</span>, </span>
+<span>                 newdata <span class="op">=</span> <span class="fu">datagrid</span><span class="op">(</span>det_cov <span class="op">=</span> <span class="va">unique</span>,</span>
 <span>                                    det_cov2 <span class="op">=</span> <span class="va">fivenum_round</span><span class="op">)</span>,</span>
 <span>                 by <span class="op">=</span> <span class="fu"><a href="https://rdrr.io/r/base/c.html" class="external-link">c</a></span><span class="op">(</span><span class="st">'det_cov'</span>, <span class="st">'det_cov2'</span><span class="op">)</span>,</span>
 <span>                 type <span class="op">=</span> <span class="st">'detection'</span><span class="op">)</span> <span class="op">+</span></span>
-<span>  <span class="fu"><a href="https://ggplot2.tidyverse.org/reference/ggtheme.html" class="external-link">theme_classic</a></span><span class="op">(</span><span class="op">)</span> <span class="op">+</span></span>
-<span>  <span class="fu"><a href="https://ggplot2.tidyverse.org/reference/labs.html" class="external-link">ylab</a></span><span class="op">(</span><span class="st">'Pr(detection)'</span><span class="op">)</span></span></code></pre></div>
+<span>  <span class="fu">theme_classic</span><span class="op">(</span><span class="op">)</span> <span class="op">+</span></span>
+<span>  <span class="fu">ylab</span><span class="op">(</span><span class="st">'Pr(detection)'</span><span class="op">)</span></span></code></pre></div>
 <p><img src="nmixtures_files/figure-html/unnamed-chunk-27-1.png" width="60%" style="display: block; margin: auto;"></p>
 <p>The model has found support for some important covariate effects, but
 of course we’d want to interrogate how well the model predicts and think
